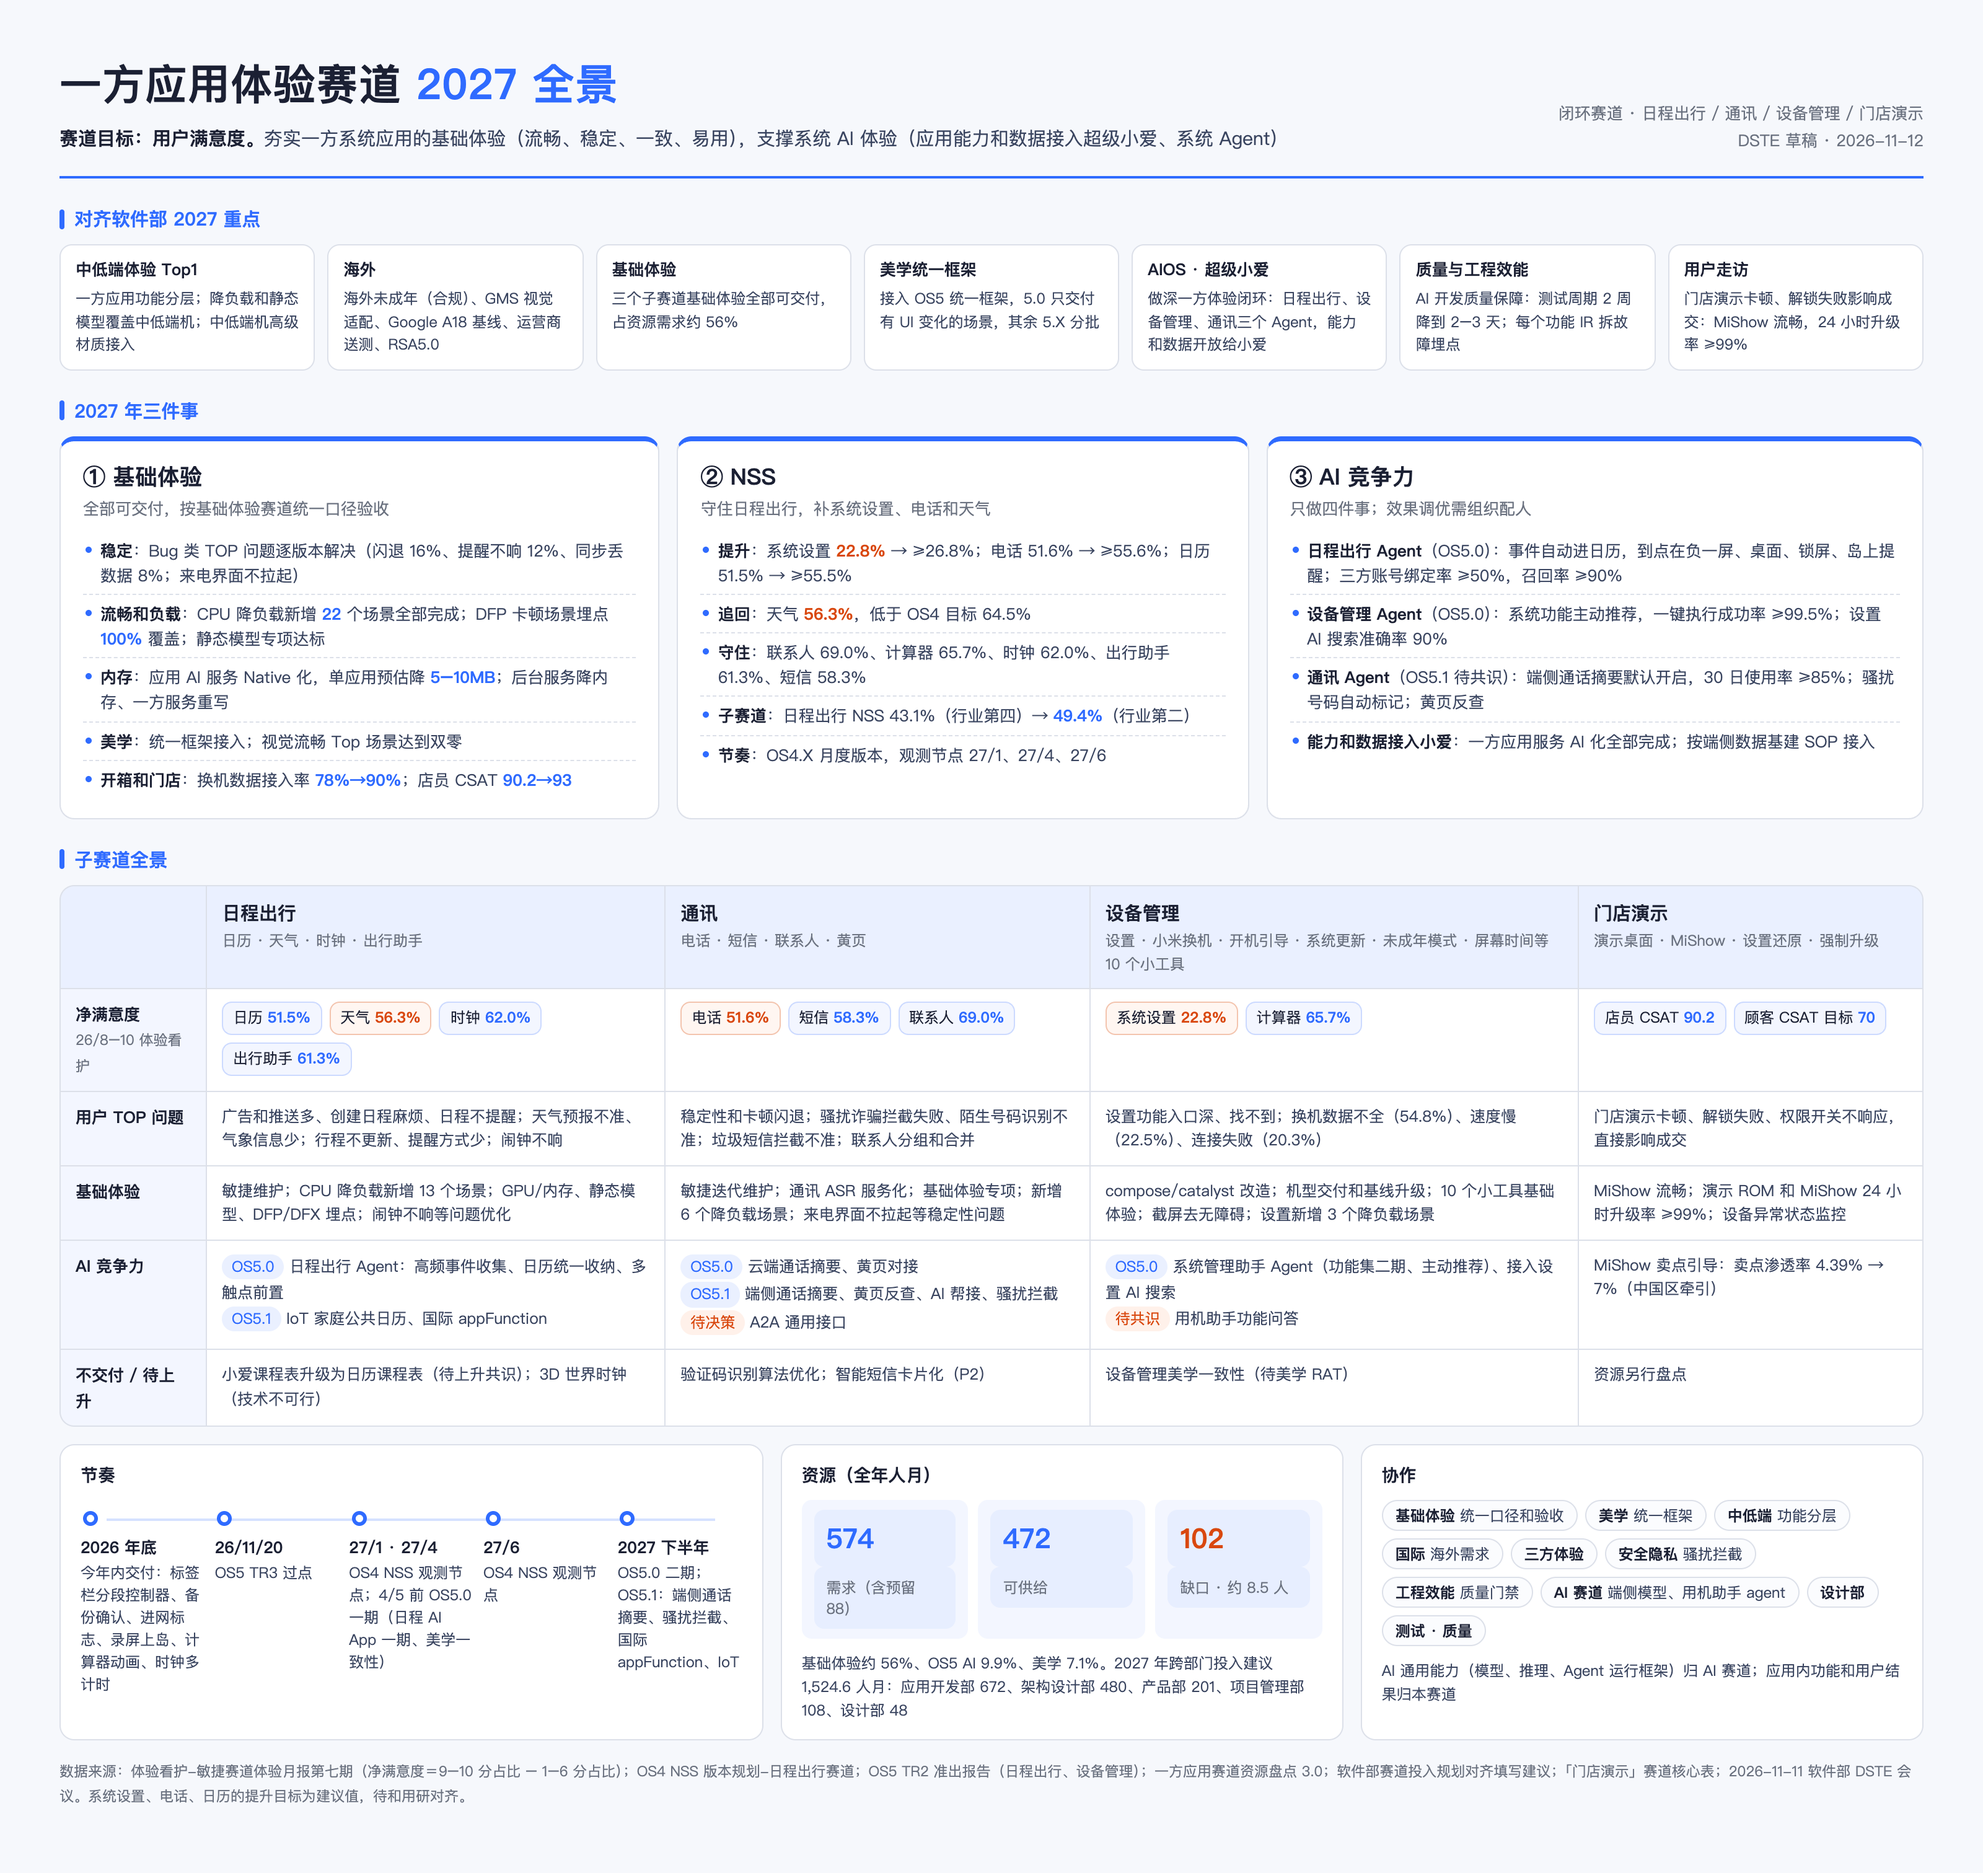
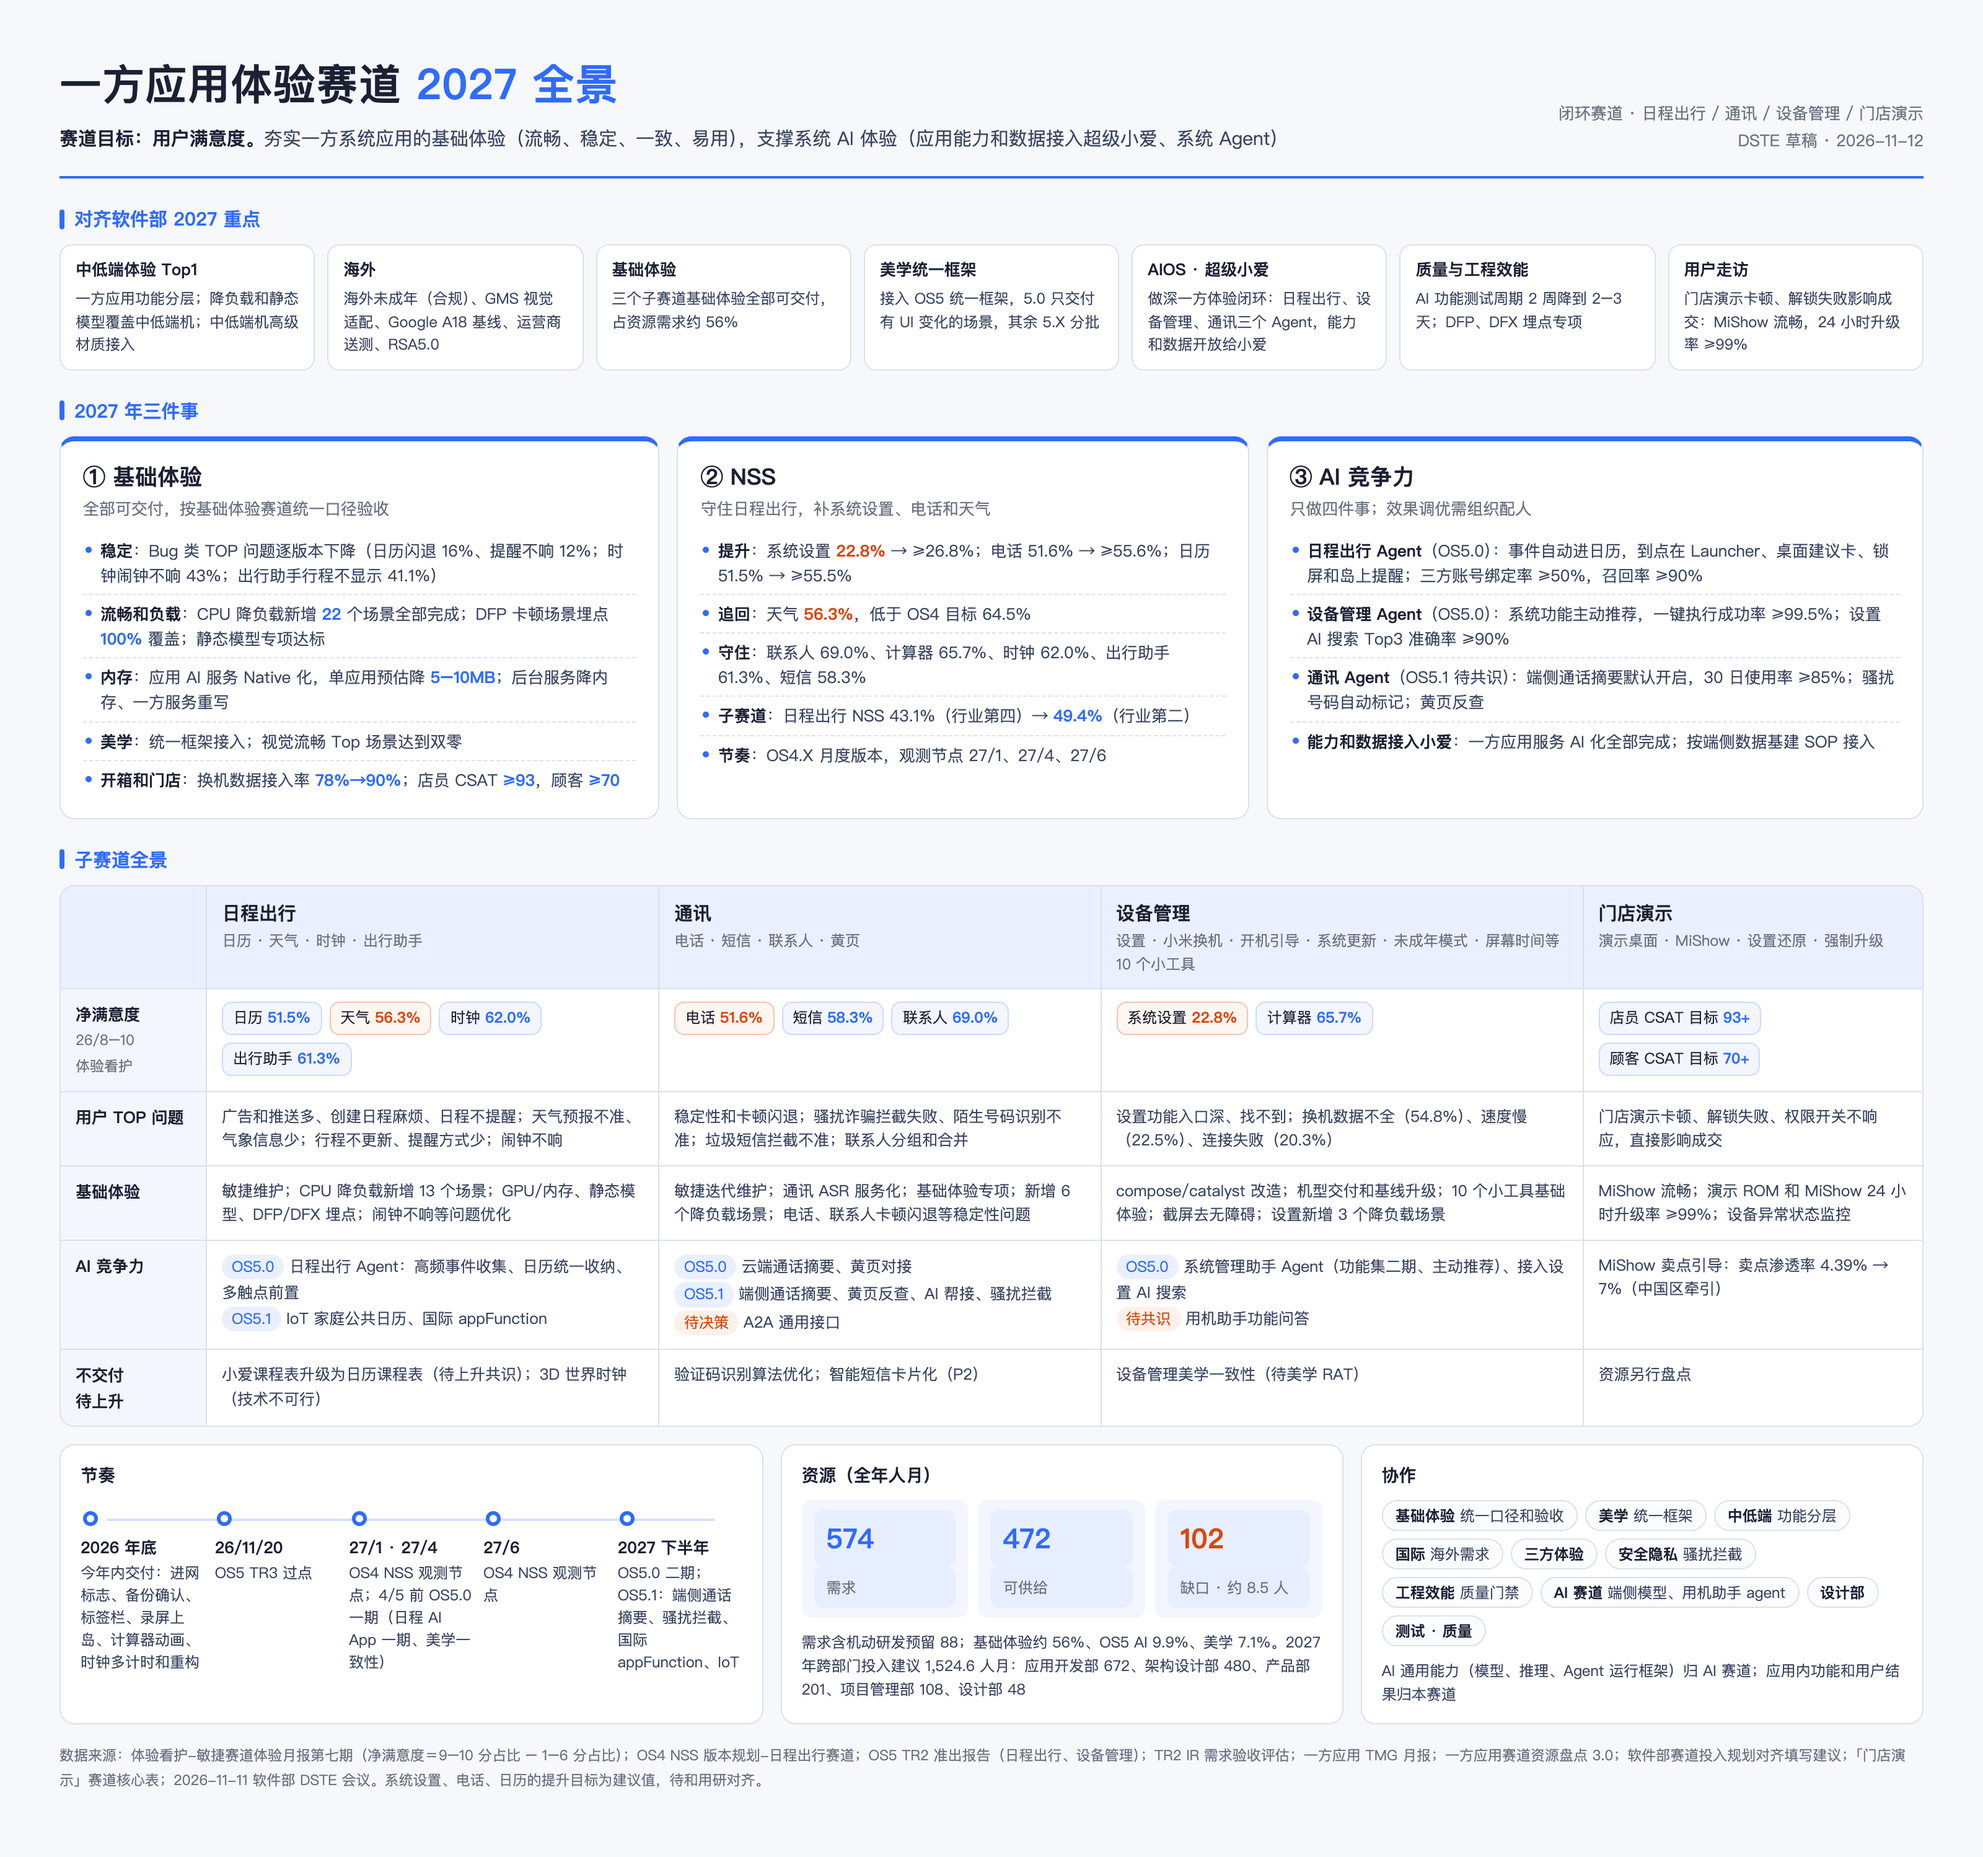
deploy: yifang-dste-2027-panorama.html (fix unverified items, line breaks)

diff --git a/demos/yifang-dste-2027-panorama.html b/demos/yifang-dste-2027-panorama.html
@@ -95,7 +95,7 @@
     <div class="al"><div class="k">基础体验</div><div class="v">三个子赛道基础体验全部可交付，占资源需求约 56%</div></div>
     <div class="al"><div class="k">美学统一框架</div><div class="v">接入 OS5 统一框架，5.0 只交付有 UI 变化的场景，其余 5.X 分批</div></div>
     <div class="al"><div class="k">AIOS · 超级小爱</div><div class="v">做深一方体验闭环：日程出行、设备管理、通讯三个 Agent，能力和数据开放给小爱</div></div>
-    <div class="al"><div class="k">质量与工程效能</div><div class="v">AI 开发质量保障：测试周期 2 周降到 2–3 天；每个功能 IR 拆故障埋点</div></div>
+    <div class="al"><div class="k">质量与工程效能</div><div class="v">AI 功能测试周期 2 周降到 2–3 天；DFP、DFX 埋点专项</div></div>
     <div class="al"><div class="k">用户走访</div><div class="v">门店演示卡顿、解锁失败影响成交：MiShow 流畅，24 小时升级率 ≥99%</div></div>
   </div>
 
@@ -105,11 +105,11 @@
       <h3>① 基础体验</h3>
       <div class="sub">全部可交付，按基础体验赛道统一口径验收</div>
       <ul>
-        <li><b>稳定</b>：Bug 类 TOP 问题逐版本解决（闪退 16%、提醒不响 12%、同步丢数据 8%；来电界面不拉起）</li>
+        <li><b>稳定</b>：Bug 类 TOP 问题逐版本下降（日历闪退 16%、提醒不响 12%；时钟闹钟不响 43%；出行助手行程不显示 41.1%）</li>
         <li><b>流畅和负载</b>：CPU 降负载新增 <span class="num">22</span> 个场景全部完成；DFP 卡顿场景埋点 <span class="num">100%</span> 覆盖；静态模型专项达标</li>
         <li><b>内存</b>：应用 AI 服务 Native 化，单应用预估降 <span class="num">5–10MB</span>；后台服务降内存、一方服务重写</li>
         <li><b>美学</b>：统一框架接入；视觉流畅 Top 场景达到双零</li>
-        <li><b>开箱和门店</b>：换机数据接入率 <span class="num">78%→90%</span>；店员 CSAT <span class="num">90.2→93</span></li>
+        <li><b>开箱和门店</b>：换机数据接入率 <span class="num">78%→90%</span>；店员 CSAT <span class="num">≥93</span>，顾客 <span class="num">≥70</span></li>
       </ul>
     </div>
     <div class="pl">
@@ -127,8 +127,8 @@
       <h3>③ AI 竞争力</h3>
       <div class="sub">只做四件事；效果调优需组织配人</div>
       <ul>
-        <li><b>日程出行 Agent</b>（OS5.0）：事件自动进日历，到点在负一屏、桌面、锁屏、岛上提醒；三方账号绑定率 ≥50%，召回率 ≥90%</li>
-        <li><b>设备管理 Agent</b>（OS5.0）：系统功能主动推荐，一键执行成功率 ≥99.5%；设置 AI 搜索准确率 90%</li>
+        <li><b>日程出行 Agent</b>（OS5.0）：事件自动进日历，到点在 Launcher、桌面建议卡、锁屏和岛上提醒；三方账号绑定率 ≥50%，召回率 ≥90%</li>
+        <li><b>设备管理 Agent</b>（OS5.0）：系统功能主动推荐，一键执行成功率 ≥99.5%；设置 AI 搜索 Top3 准确率 ≥90%</li>
         <li><b>通讯 Agent</b>（OS5.1 待共识）：端侧通话摘要默认开启，30 日使用率 ≥85%；骚扰号码自动标记；黄页反查</li>
         <li><b>能力和数据接入小爱</b>：一方应用服务 AI 化全部完成；按端侧数据基建 SOP 接入</li>
       </ul>
@@ -148,11 +148,11 @@
     </thead>
     <tbody>
       <tr>
-        <td class="row">净满意度<br><span style="font-weight:400;color:#6B7280;font-size:11.5px">26/8–10 体验看护</span></td>
+        <td class="row">净满意度<br><span style="font-weight:400;color:#6B7280;font-size:11.5px">26/8–10<br>体验看护</span></td>
         <td><div class="nss"><span>日历 <b>51.5%</b></span><span class="low">天气 <b>56.3%</b></span><span>时钟 <b>62.0%</b></span><span>出行助手 <b>61.3%</b></span></div></td>
         <td><div class="nss"><span class="low">电话 <b>51.6%</b></span><span>短信 <b>58.3%</b></span><span>联系人 <b>69.0%</b></span></div></td>
         <td><div class="nss"><span class="low">系统设置 <b>22.8%</b></span><span>计算器 <b>65.7%</b></span></div></td>
-        <td><div class="nss"><span>店员 CSAT <b>90.2</b></span><span>顾客 CSAT 目标 <b>70</b></span></div></td>
+        <td><div class="nss"><span>店员 CSAT 目标 <b>93+</b></span><span>顾客 CSAT 目标 <b>70+</b></span></div></td>
       </tr>
       <tr>
         <td class="row">用户 TOP 问题</td>
@@ -164,7 +164,7 @@
       <tr>
         <td class="row">基础体验</td>
         <td>敏捷维护；CPU 降负载新增 13 个场景；GPU/内存、静态模型、DFP/DFX 埋点；闹钟不响等问题优化</td>
-        <td>敏捷迭代维护；通讯 ASR 服务化；基础体验专项；新增 6 个降负载场景；来电界面不拉起等稳定性问题</td>
+        <td>敏捷迭代维护；通讯 ASR 服务化；基础体验专项；新增 6 个降负载场景；电话、联系人卡顿闪退等稳定性问题</td>
         <td>compose/catalyst 改造；机型交付和基线升级；10 个小工具基础体验；截屏去无障碍；设置新增 3 个降负载场景</td>
         <td>MiShow 流畅；演示 ROM 和 MiShow 24 小时升级率 ≥99%；设备异常状态监控</td>
       </tr>
@@ -176,7 +176,7 @@
         <td>MiShow 卖点引导：卖点渗透率 4.39% → 7%（中国区牵引）</td>
       </tr>
       <tr>
-        <td class="row">不交付 / 待上升</td>
+        <td class="row">不交付<br>待上升</td>
         <td>小爱课程表升级为日历课程表（待上升共识）；3D 世界时钟（技术不可行）</td>
         <td>验证码识别算法优化；智能短信卡片化（P2）</td>
         <td>设备管理美学一致性（待美学 RAT）</td>
@@ -189,7 +189,7 @@
     <div class="box">
       <h4>节奏</h4>
       <div class="tl">
-        <div class="tn"><div class="dot"></div><div class="d">2026 年底</div><div class="x">今年内交付：标签栏分段控制器、备份确认、进网标志、录屏上岛、计算器动画、时钟多计时</div></div>
+        <div class="tn"><div class="dot"></div><div class="d">2026 年底</div><div class="x">今年内交付：进网标志、备份确认、标签栏、录屏上岛、计算器动画、时钟多计时和重构</div></div>
         <div class="tn"><div class="dot"></div><div class="d">26/11/20</div><div class="x">OS5 TR3 过点</div></div>
         <div class="tn"><div class="dot"></div><div class="d">27/1 · 27/4</div><div class="x">OS4 NSS 观测节点；4/5 前 OS5.0 一期（日程 AI App 一期、美学一致性）</div></div>
         <div class="tn"><div class="dot"></div><div class="d">27/6</div><div class="x">OS4 NSS 观测节点</div></div>
@@ -199,11 +199,11 @@
     <div class="box">
       <h4>资源（全年人月）</h4>
       <div class="res">
-        <div><div class="n">574</div><div class="l">需求（含预留 88）</div></div>
+        <div><div class="n">574</div><div class="l">需求</div></div>
         <div><div class="n">472</div><div class="l">可供给</div></div>
         <div><div class="n w">102</div><div class="l">缺口 · 约 8.5 人</div></div>
       </div>
-      <div class="small">基础体验约 56%、OS5 AI 9.9%、美学 7.1%。2027 年跨部门投入建议 1,524.6 人月：应用开发部 672、架构设计部 480、产品部 201、项目管理部 108、设计部 48</div>
+      <div class="small">需求含机动研发预留 88；基础体验约 56%、OS5 AI 9.9%、美学 7.1%。2027 年跨部门投入建议 1,524.6 人月：应用开发部 672、架构设计部 480、产品部 201、项目管理部 108、设计部 48</div>
     </div>
     <div class="box">
       <h4>协作</h4>
@@ -214,7 +214,7 @@
     </div>
   </div>
 
-  <div class="foot">数据来源：体验看护-敏捷赛道体验月报第七期（净满意度＝9–10 分占比 − 1–6 分占比）；OS4 NSS 版本规划-日程出行赛道；OS5 TR2 准出报告（日程出行、设备管理）；一方应用赛道资源盘点 3.0；软件部赛道投入规划对齐填写建议；「门店演示」赛道核心表；2026-11-11 软件部 DSTE 会议。系统设置、电话、日历的提升目标为建议值，待和用研对齐。</div>
+  <div class="foot">数据来源：体验看护-敏捷赛道体验月报第七期（净满意度＝9–10 分占比 − 1–6 分占比）；OS4 NSS 版本规划-日程出行赛道；OS5 TR2 准出报告（日程出行、设备管理）；TR2 IR 需求验收评估；一方应用 TMG 月报；一方应用赛道资源盘点 3.0；软件部赛道投入规划对齐填写建议；「门店演示」赛道核心表；2026-11-11 软件部 DSTE 会议。系统设置、电话、日历的提升目标为建议值，待和用研对齐。</div>
 </div>
 </body>
 </html>
